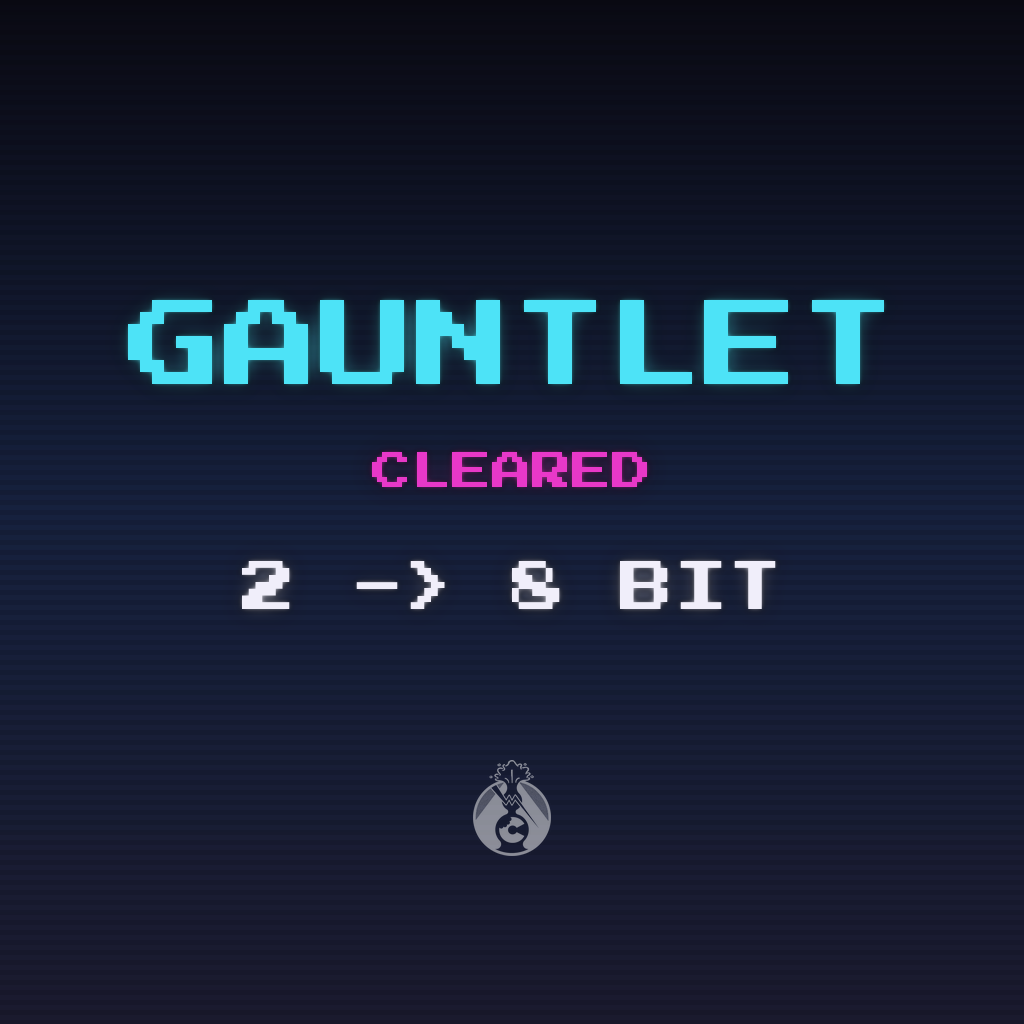
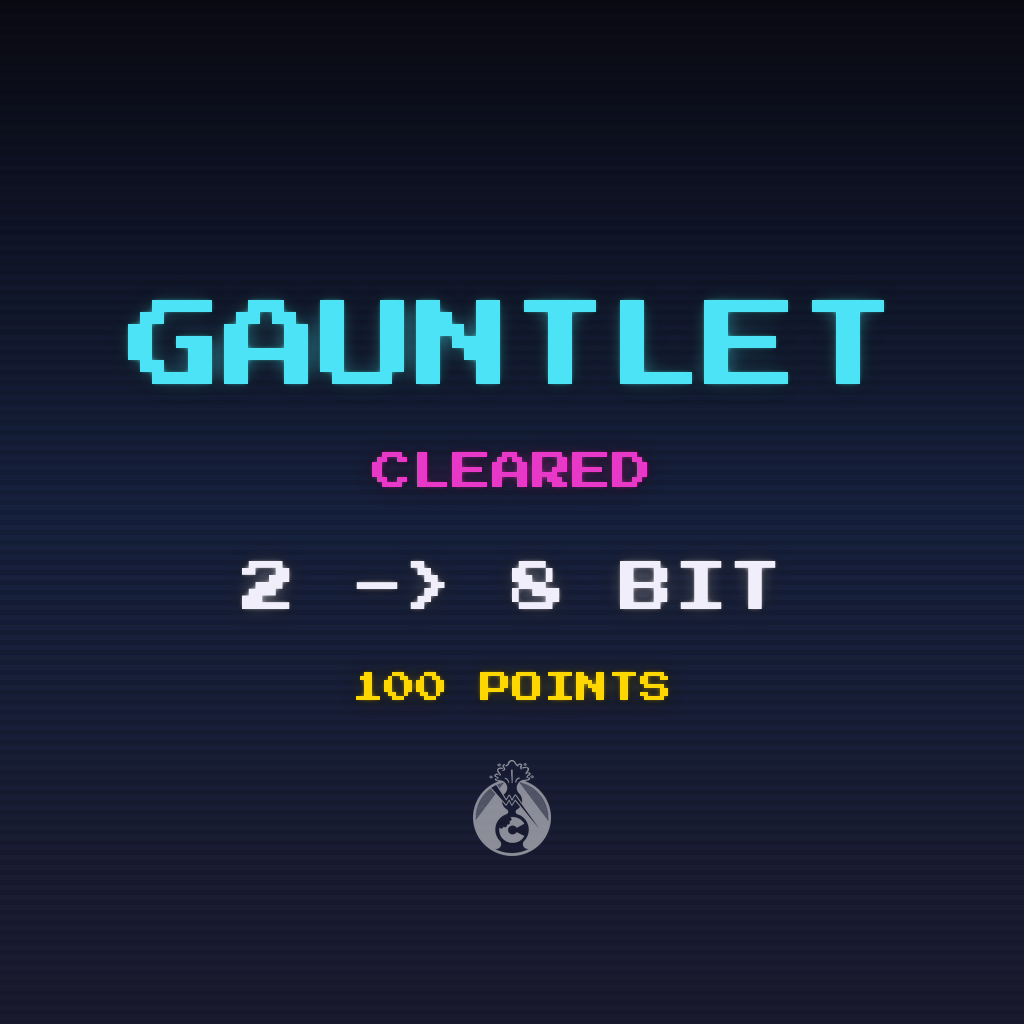
The achievement cards carry their points, as makemecookies' do
Fifteen cards gain a gold points line under the formula. The eight leaderboards
are untouched, because a leaderboard has no points.

The numbers are parsed out of the budget table in the achievements shim's
header rather than retyped, the way everything else on these cards already is.
That table is by pattern rather than by id -- `overflow.<n>bit x7 50 each 350`
-- so the counts are part of what is checked: a row claiming seven of something
the shim does not build seven of now fails by name.

Four cross-checks, and the first is not hypothetical. The shim's header records
that an earlier plan put the Gauntlet clear at 300, which App Store Connect
would have refused at 100 per achievement; that is now caught rather than
remembered. The others are a count that disagrees with what the script builds,
a subtotal that does not multiply, and a grand total that disagrees with its
own rows. All four verified by breaking the table four ways.

The layout gained an assertion too. A long title shrinks its font and pulls
every line below it upward, so the points line cannot be placed by arithmetic
on the defaults: it is checked against the publisher's mark, which is
composited after the bloom and would otherwise simply be drawn over.

Colour is #ffd700, the NOT gate's, which is the game's third accent after the
cyan and magenta already on these cards.

Points: overflows 7 x 50, Gauntlet clear 100, discoveries 7 x 50, so 800 of
1000 with 200 left. Unchanged; this only puts them on the art.

Changed region(s): [[0.4688, 0.6562, 0.6562, 0.6875], [0.3438, 0.6562, 0.4375, 0.6875]]

diff --git a/ios/tools/make-boards.py b/ios/tools/make-boards.py
@@ -50,6 +50,10 @@ _spec.loader.exec_module(art)
 
 WHITE = (240, 238, 250)
 DIM = (150, 142, 176)
+# #ffd700, the NOT gate's colour in web/css/codex.css and the game's third
+# accent after cyan and magenta. Only the achievement cards use it: a
+# leaderboard has no points.
+GOLD = (255, 215, 0)
 
 
 # ── what the game says ──────────────────────────────────────────────────────
@@ -88,6 +92,64 @@ def read_achievement_ids():
     if len(ids) != 7:
         raise SystemExit(f"expected 7 learn ids in the shim, found {len(ids)}")
     return prefix.group(1), ids
+
+
+# App Store Connect's two hard limits, which the shim's header quotes and an
+# earlier plan of 300 for the Gauntlet clear would have broken.
+MAX_PER_ACHIEVEMENT = 100
+MAX_TOTAL = 1000
+
+
+def read_points(achievement_ids):
+    """{id: points}, from the budget table in the achievements shim's header.
+
+    The table is by pattern rather than by id -- `overflow.<n>bit  x7  50 each
+    350` -- so the counts are part of what is checked: a row claiming seven of
+    something the shim does not build seven of is caught here rather than
+    discovered on the form.
+    """
+    text = (IOS / "shim" / "gamekit-achievements.js").read_bytes().decode()
+
+    rows = re.findall(r"^ \*   (\S+)\s+x(\d+)\s+(\d+)(?: each)?\s+(\d+)\s*$", text, re.M)
+    if not rows:
+        raise SystemExit("could not read the points table from gamekit-achievements.js")
+
+    stated = re.search(r"^ \*\s+(\d+), leaving (\d+)", text, re.M)
+    if not stated:
+        raise SystemExit("the points table has no total line")
+
+    def bucket(ident):
+        if ident.startswith("overflow."):
+            return "overflow.<n>bit"
+        if ident.startswith("learn."):
+            return "learn.<id>"
+        return ident
+
+    points = {}
+    for pattern, count, each, subtotal in rows:
+        count, each, subtotal = int(count), int(each), int(subtotal)
+        if each > MAX_PER_ACHIEVEMENT:
+            raise SystemExit(f"{pattern}: {each} points, over Apple's {MAX_PER_ACHIEVEMENT} per achievement")
+        if count * each != subtotal:
+            raise SystemExit(f"{pattern}: {count} x {each} is {count * each}, not the {subtotal} stated")
+        matched = [i for i in achievement_ids if bucket(i) == pattern]
+        if len(matched) != count:
+            raise SystemExit(
+                f"{pattern}: the table says x{count}, the shim builds {len(matched)}"
+            )
+        for i in matched:
+            points[i] = each
+
+    missing = [i for i in achievement_ids if i not in points]
+    if missing:
+        raise SystemExit(f"no points row covers {missing}")
+
+    total = sum(points.values())
+    if total != int(stated.group(1)):
+        raise SystemExit(f"the rows total {total}, the table says {stated.group(1)}")
+    if total > MAX_TOTAL:
+        raise SystemExit(f"the achievements total {total}, over Apple's {MAX_TOTAL}")
+    return points, total, int(stated.group(2))
 
 
 # ── the gate symbols, drawn ─────────────────────────────────────────────────
@@ -211,11 +273,17 @@ def fit_formula(d, formula, start, minimum=24):
     return art.load_font(minimum), minimum
 
 
-def card(title, subtitle, formula):
-    """One 1024 square: title, subtitle, formula, and the publisher's mark.
+# The publisher's mark is composited at this y, so nothing drawn may reach it.
+MARK_TOP = 760
+
+
+def card(title, subtitle, formula, badge=""):
+    """One 1024 square: title, subtitle, formula, points, the publisher's mark.
 
     Everything sits inside the middle 80%: Game Center rounds these corners
     and crops at several sizes, and the asset catalog is not what shows them.
+
+    `badge` is the points line, and only achievements have one.
     """
     out = art.gradient(SIZE)
     layer = Image.new("RGBA", (SIZE, SIZE), (0, 0, 0, 0))
@@ -227,13 +295,30 @@ def card(title, subtitle, formula):
     w = d.textlength(title, font=title_font)
     d.text(((SIZE - w) / 2, 300), title, font=title_font, fill=art.CYAN)
 
+    sub_top = 300 + title_font.size + 56
     w = d.textlength(subtitle, font=sub_font)
-    d.text(((SIZE - w) / 2, 300 + title_font.size + 56), subtitle, font=sub_font, fill=art.MAGENTA)
+    d.text(((SIZE - w) / 2, sub_top), subtitle, font=sub_font, fill=art.MAGENTA)
 
+    bottom = sub_top + sub_font.size
     if formula:
+        formula_top = bottom + 70
         formula_font, formula_size = fit_formula(d, formula, 54)
-        draw_formula(d, formula, formula_font, WHITE, SIZE / 2,
-                     300 + title_font.size + 56 + sub_font.size + 70, formula_size)
+        draw_formula(d, formula, formula_font, WHITE, SIZE / 2, formula_top, formula_size)
+        bottom = formula_top + formula_size
+
+    if badge:
+        badge_font = fit_text(d, badge, 32)
+        badge_top = bottom + 56
+        # A long title shrinks its font and pulls everything up, so this cannot
+        # be checked by arithmetic on the defaults alone. The mark is composited
+        # after the bloom and would simply be drawn over.
+        if badge_top + badge_font.size > MARK_TOP - 16:
+            raise SystemExit(
+                f"the points line on {title!r} reaches {badge_top + badge_font.size}px, "
+                f"into the publisher's mark at {MARK_TOP}px"
+            )
+        w = d.textlength(badge, font=badge_font)
+        d.text(((SIZE - w) / 2, badge_top), badge, font=badge_font, fill=GOLD)
 
     out = art.screen(out, art.bloom(layer, radius=SIZE // 90, strength=0.8))
     out = art.screen(out, art.bloom(layer, radius=SIZE // 320, strength=1.0))
@@ -247,7 +332,7 @@ def card(title, subtitle, formula):
         )
         faded = scaled.copy()
         faded.putalpha(scaled.getchannel("A").point(lambda v: round(v * 0.5)))
-        out.alpha_composite(faded, ((SIZE - scaled.width) // 2, 760))
+        out.alpha_composite(faded, ((SIZE - scaled.width) // 2, MARK_TOP))
 
     # RGB, as the spec asks: an alpha channel here is a rejected upload.
     return out.convert("RGB")
@@ -265,8 +350,20 @@ def build_all():
             f"  codex: {codex_ids}\n  shim:  {learn_ids}"
         )
 
+    # The ids in the order they are drawn, so the points table is checked
+    # against what this script actually builds rather than against itself.
+    overflow_bits = [bits for _k, _n, bits, gauntlet in modes if not gauntlet]
+    achievement_ids = (
+        [f"overflow.{b}bit" for b in overflow_bits]
+        + ["gauntlet.clear"]
+        + [f"learn.{i}" for i in learn_ids]
+    )
+    points, total, spare = read_points(achievement_ids)
+    pts = lambda ident: f"{points[ident]} POINTS"  # noqa: E731
+
     images = []
 
+    # A leaderboard has no points, so it gets no badge.
     for key, name, bits, gauntlet in modes:
         if gauntlet:
             images.append((f"leaderboards/{key}", card("GAUNTLET", name.upper(), "2 -> 8 BIT")))
@@ -276,22 +373,27 @@ def build_all():
                 (f"leaderboards/{key}", card(f"{bits}-BIT", name.upper(), f"MAX {ones}"))
             )
 
-    for _key, _name, bits, gauntlet in modes:
-        if gauntlet:
-            continue
+    for bits in overflow_bits:
+        ident = f"overflow.{bits}bit"
         images.append(
             (
-                f"achievements/overflow.{bits}bit",
-                card("OVERFLOW", f"{bits}-BIT", f"¬{'1' * bits} = {'0' * bits}"),
+                f"achievements/{ident}",
+                card("OVERFLOW", f"{bits}-BIT", f"¬{'1' * bits} = {'0' * bits}", pts(ident)),
             )
         )
 
-    images.append(("achievements/gauntlet.clear", card("GAUNTLET", "CLEARED", "2 -> 8 BIT")))
+    images.append(
+        (
+            "achievements/gauntlet.clear",
+            card("GAUNTLET", "CLEARED", "2 -> 8 BIT", pts("gauntlet.clear")),
+        )
+    )
 
     for ident, title, formula in discoveries:
-        images.append((f"achievements/learn.{ident}", card(title.upper(), "DISCOVERY", formula)))
+        aid = f"learn.{ident}"
+        images.append((f"achievements/{aid}", card(title.upper(), "DISCOVERY", formula, pts(aid))))
 
-    return prefix, images
+    return prefix, images, total, spare
 
 
 def contact_sheet(images, columns=6):
@@ -309,7 +411,7 @@ def main():
     ap.add_argument("--sheet", metavar="PNG", help="also write a contact sheet here")
     args = ap.parse_args()
 
-    prefix, images = build_all()
+    prefix, images, total, spare = build_all()
     for folder in ("leaderboards", "achievements"):
         (OUT / folder).mkdir(parents=True, exist_ok=True)
 
@@ -318,6 +420,7 @@ def main():
         image.save(path)
     print(f"wrote {len(images)} images to {OUT.relative_to(REPO)}")
     print(f"  ids carry the prefix {prefix}")
+    print(f"  points {total} of {MAX_TOTAL}, leaving {spare}, as the shim's table has it")
 
     if args.sheet:
         contact_sheet(images).save(args.sheet)
